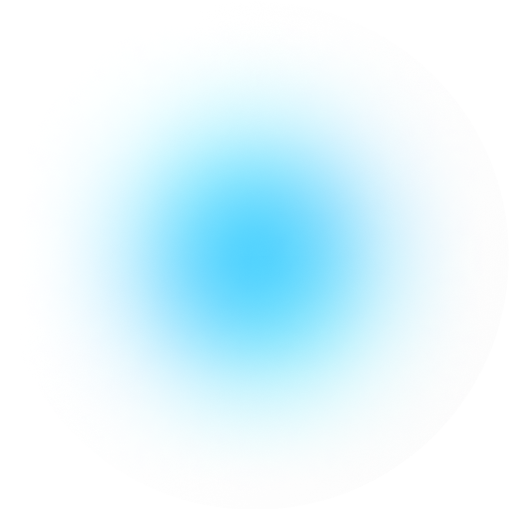
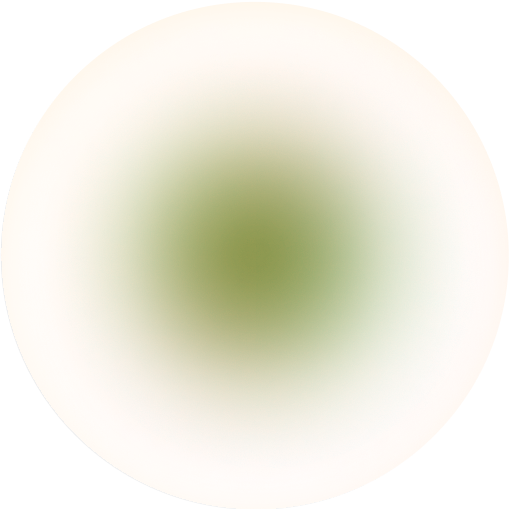
Menu Changes

diff --git a/src/sections/Projects.jsx b/src/sections/Projects.jsx
@@ -1,11 +1,82 @@
-import work from '../assets/sampleOut.json'
+import React from "react";
+import { motion } from "framer-motion";
 
-const Projects = () => {
-    const project = work.personalInfo[0].work;
+const projects = [
+  {
+    id: 1,
+    title: "Project One",
+    description: "A brief description of Project One.",
+    image: "https://via.placeholder.com/300",
+    link: "#",
+  },
+  {
+    id: 2,
+    title: "Project Two",
+    description: "A brief description of Project Two.",
+    image: "https://via.placeholder.com/300",
+    link: "#",
+  },
+  {
+    id: 3,
+    title: "Project Three",
+    description: "A brief description of Project Three.",
+    image: "https://via.placeholder.com/300",
+    link: "#",
+  },
+  {
+    id: 4,
+    title: "Project Four",
+    description: "A brief description of Project Four.",
+    image: "https://via.placeholder.com/300",
+    link: "#",
+  },
+];
+
+const Projects = ({info}) => {
   return (
-    <div>
-      
-    </div>
+      <section className="py-16 bg-gray-100">
+      <div className="container mx-auto px-6">
+        <motion.h2
+          className="text-3xl font-bold text-center mb-12"
+          initial={{ opacity: 0, y: 50 }}
+          animate={{ opacity: 1, y: 0 }}
+          transition={{ duration: 0.5 }}
+        >
+          My Work
+        </motion.h2>
+
+        <div className="grid grid-cols-1 md:grid-cols-2 lg:grid-cols-3 gap-6">
+        {info.work.map((item, index) =>
+            <motion.div
+              key={index}
+              className="group relative overflow-hidden rounded-lg shadow-lg"
+              initial={{ opacity: 0, y: 50 }}
+              whileInView={{ opacity: 1, y: 0 }}
+              viewport={{ once: true, amount: 0.3 }}
+              transition={{ delay: index * 0.2, duration: 0.6, ease: "easeOut" }}
+            >
+              <img
+                src={item.img}
+                alt={item.title}
+                className="w-full h-80 object-cover"
+              />
+              <div className="absolute inset-0 bg-black bg-opacity-50 flex flex-col items-center justify-center opacity-0 group-hover:opacity-100 transition-opacity duration-300">
+                <h3 className="text-white text-xl font-semibold mb-2">
+                  {item.title}
+                </h3>
+                {/* <p className="text-white text-sm mb-4">{project.description}</p> */}
+                <a
+                  href={item.url}
+                  className="px-4 py-2 bg-white text-black rounded-md font-medium"
+                >
+                  View Project
+                </a>
+              </div>
+            </motion.div>
+          )}
+        </div>
+      </div>
+    </section>
   )
 }
 

diff --git a/src/components/Radial.jsx b/src/components/Radial.jsx
@@ -6,18 +6,18 @@ const Radial = ({info}) => {
         <div className="container">
         <h2 className="text-center uppercase font-bold mb-5">Get In Touch</h2>
         <p className='text-xl text-center mx-auto max-w-[450px]'>Feel free to reach out for collaboration or opportunities. I’d love to connect!</p>
-        <div className="radial-anim relative md:px-6 max-w-[850px] sm:pt-[200px] mx-auto text-center bg-[radial-gradient(rgba(39,208,255,0.18)_20%,rgba(19,48,68,0.00)_67%)]">
+        <div className="radial-anim relative md:px-6 max-w-[850px] sm:pt-[200px] mx-auto text-center bg-[radial-gradient(rgba(246,142,49,0.18)_20%,rgba(19,48,68,0.00)_67%)]">
         <div className="relative my-8 sm:my-0 sm:absolute btn-group-container w-full flex flex-col sm:flex-row gap-3 justify-between z-10 sm:top-20 left-0">
             <div className="w-full sm:w-48 flex flex-wrap sm:flex-col justify-center gap-3 sm:gap-0">
-                <a href={`mailto:${info.email}`} className="btn-primary btn text-base sm:mb-24 self-end sm:mr-[-40px]"> Email </a>
+                <a href={`mailto:${info.email}`} className="btn-primary btn text-base sm:mb-8 md:mb-24 self-end sm:mr-[-40px]"> Email </a>
                 <a href="https://account.microsoft.com/?username=mohan.thakur61" target="_blank" className="btn-primary btn text-base" width={272} height={272}>Skype</a>
             </div>
             <div className="w-full sm:w-48 flex flex-wrap sm:flex-col justify-center gap-3 sm:gap-0">
-                <a href="https://wa.me/+917771040630" target="_blank" className="btn-primary btn text-base sm:mb-24 sm:translate-x-[-40px]">WhatsApp</a>
+                <a href="https://wa.me/+917771040630" target="_blank" className="btn-primary btn text-base sm:mb-8 md:mb-24 sm:translate-x-[-40px]">WhatsApp</a>
                 <a href="tel:+91771040630" className="btn-primary btn self-end text-base">Call us</a>
             </div>
         </div>
-        <div className="circle-anim relative pt-3 w-[272px] h-[272px] mb-[-140px] md:mb-[-240px] mx-auto ">
+        <div className="circle-anim relative pt-3 w-[200px] md:w-[272px] h-[200px] md:h-[272px] mb-[-115px] md:mb-[-240px] mx-auto ">
             <div className="bg-circle absolute inset-0 rounded-full">
                 <img src="/glowing-ball.png" width={272} height={272} alt="glowing" loading="lazy"/>
                 <div className="absolute inset-0 border border-white border-opacity-20 rounded-full animate-circle "></div>

diff --git a/src/sections/Header.jsx b/src/sections/Header.jsx
@@ -43,7 +43,7 @@ const Header = () => {
               <ul className="navbar-nav flex gap-5 md:gap-12 flex-col md:flex-row">
                 { navLinks.map((link, index) => (
                       <li key={index} className="nav-item">
-                        <a className="text-2xl uppercase text-white opacity-80 py-4 inline-block font-barlow tracking-wide" href={link.path}  onClick={() => handleScroll(link.path)}>{link.title}</a>
+                        <a className="text-2xl uppercase text-white opacity-80 py-4 inline-block font-barlow tracking-wide" href={link.path}  onClick={() => {handleScroll(link.path); toggleNav()}}>{link.title}</a>
                       </li>
                   ))
                   }

diff --git a/src/sections/Work.jsx b/src/sections/Work.jsx
@@ -4,7 +4,7 @@ const Work = ({info}) => {
   return (
     <section className='WorkSection md:py-sp-100' id="work">
        <div className='container'>
-            <h2 className='text-center uppercase font-bold mb-8 mb-16'>Work</h2>
+            <h2 className='text-center uppercase font-bold mb-8 md:mb-16'>Work</h2>
             <ul className="workList grid gap-5 2xl:gap-8 sm:grid-cols-2 lg:grid-cols-3">
                 {info.work.map((item, index) => (
                     <li key={index} className='relative'>

diff --git a/src/App.jsx b/src/App.jsx
@@ -22,7 +22,7 @@ function App() {
       </section>
       
       <About info={info}/>
-      {/* <Projects/> */}
+      {/* <Projects info={info} /> */}
       <Work info={info} />
       <section className="brands py-8 space-y-1 md:space-y-3">
           <div className="whitespace-nowrap overflow-x-hidden space-x-1 md:space-x-3 relative">
